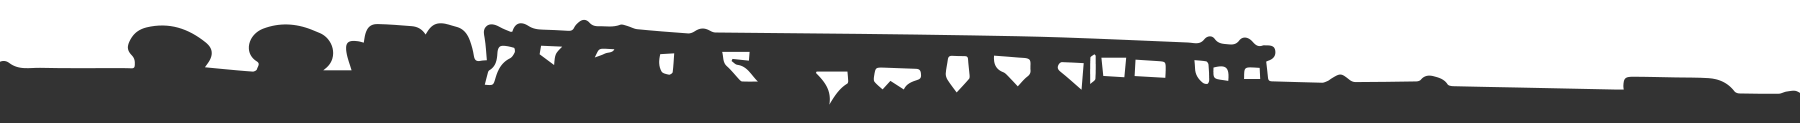
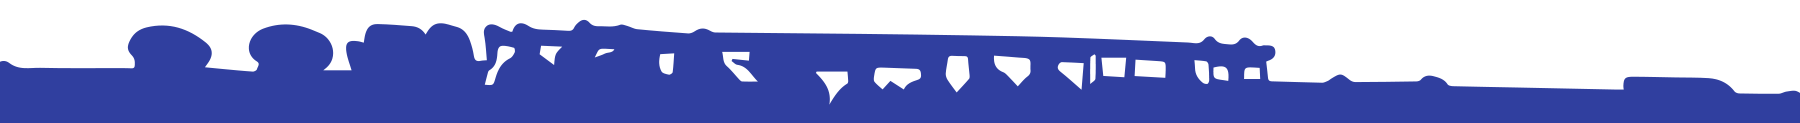
Changes 'Courses' to 'Levels'. Changes color scheme to indigo & pink.

diff --git a/dtf/app/static/app/less/footers.less b/dtf/app/static/app/less/footers.less
@@ -5,15 +5,18 @@
 /* ------ Universal Styles
 /* --------------------------------------- */
 footer {
-	background-color:@gray-darker;
+	background-color: darken(@brand-primary-dark, 12%);
 	.text-white();
-	a:hover { color: #fff; }
+	a {
+		color: @brand-secondary;
+		&:hover { color: #fff; }
+	}
 	.widget-title { margin-bottom: 20px; }
 	.contact-widget p { margin: 0; }
 }
 .bottom-footer {
 	background-color: transparent;
-	color: @gray-light;
+	color: fadeout(#fff, 17%);
 	padding: 35px 0;
 	font-size: 12px;
 }
@@ -23,7 +26,7 @@ footer {
 .footer-main,
 .footer-app { margin-top: 60px; }
 .footer-content {
-	background-color: @gray-dark;
+	background-color: @brand-primary-dark;
 	padding: 50px 0 70px;
 	text-align: left;
 	// Box Shadow
@@ -40,34 +43,10 @@ footer {
 // ------ Contact Footer (Homepage)
 // ---------------------------------------
 .contact-footer {
-	.flute-divider { background-color: @brand-primary; }
+	.flute-divider { background-color: @brand-secondary; }
 	.contact-section {
 		padding: 60px 0 30px;
-		background-color: @gray-dark;
+		background-color: @brand-primary-dark;
 	}
-}
-
-.bottom-menu {
-	position: fixed;
-	bottom: 0;
-	left: 0;
-	width: 100%;
-	background-color: #fff;
-	.bottom-menu-trigger {
-		background-color: @gray-dark;
-		color: #fff;
-		padding: 10px;
-		>a {
-			width: 100%;
-			margin: 0;
-			color: #fff;
-			font-size: 0.9em;
-		}
-	}
-	.bottom-menu-content {
-		display: none;
-		&.active {
-			display: block;
-		}
-	}
+	.btn-lg.submit { line-height: 1.45; }
 }

diff --git a/dtf/app/static/app/less/navbars.less b/dtf/app/static/app/less/navbars.less
@@ -114,15 +114,15 @@
 // ---------------------------------------
 .nav-secondary,
 .nav-marketing {
-	background-color: @gray-dark;
+	background-color: @brand-primary-dark;
 	.navbar-nav > li > a {
-		color: @gray-light2;
-		.caret { color: @gray-light2; }
+		color: #fff;
+		.caret { color: #fff; }
 		&:hover,
 		&:focus {
-			color: #fff;
+			color: @brand-secondary;
 			background-color: transparent;
-			.caret { color: #fff; }
+			.caret { color: @brand-secondary; }
 		}
 	}
 	.dropdown-menu {
@@ -159,14 +159,9 @@
     > li {
       float: left;
       > a {
-      	color: @gray-light2;
       	cursor: pointer;
         padding-top:    @navbar-padding-vertical;
         padding-bottom: @navbar-padding-vertical;
-				&:hover {
-					background-color: transparent;
-					color: #fff;
-				}
       }
     }
     &:first-child { margin-left: -@navbar-padding-horizontal; }
@@ -182,10 +177,4 @@
 		padding-top: 24px;
 	}
 	.navbar-nav > li > a { line-height: 50px; }
-	// Homepage Marketing Nav
-	&.home {
-		background-color: fadeout(@gray-darker, 30%);
-		margin-bottom: -80px;
-		.dropdown-menu { background-color: fadeout(@gray-darker, 30%); }
-	}
 }

diff --git a/dtf/app/static/app/less/variables.less b/dtf/app/static/app/less/variables.less
@@ -15,11 +15,13 @@
 @gray-lighter:           lighten(#000, 93.5%); // #eee
 
 // Brand Colors
-@brand-primary:         #a97c4b; // Brown
-@brand-secondary:       #325b6a; // Teal
+@brand-primary:         #3f51b5; // Indigo
+@brand-primary-dark:    #303f9f;
+
+@brand-secondary:       #ff80ab; // Pink
 
 // Alert Colors
-@brand-success:         #325b6a; // Teal
+@brand-success:         #5cb85c; // Green
 @brand-info:            #5bc0de; // Light Blue
 @brand-warning:         #f0ad4e; // Yellow
 @brand-danger:          #d9534f; // Red
@@ -153,6 +155,10 @@
 @btn-primary-color:              #fff;
 @btn-primary-bg:                 @brand-primary;
 @btn-primary-border:             darken(@btn-primary-bg, 5%);
+
+@btn-secondary-color:            #fff;
+@btn-secondary-bg:               @brand-secondary;
+@btn-secondary-border:           darken(@btn-secondary-bg, 5%);
 
 @btn-success-color:              #fff;
 @btn-success-bg:                 @brand-success;

diff --git a/dtf/app/static/app/less/marketing.less b/dtf/app/static/app/less/marketing.less
@@ -24,6 +24,10 @@
 	background-color: @brand-primary;
 	.text-white();
 }
+.block-secondary {
+	background-color: @brand-secondary;
+	.text-white();
+}
 
 /* Parallax Background
 /* ----------------------------------- */
@@ -145,16 +149,14 @@
 /* ----------------------------------- */
 .signup-cta {
 	&.block { padding-bottom: 55px; }
-	.block-primary();
+	.block-secondary();
 	.call-to-action { margin: 0 0 30px; }
 	.cta-button {
-		background-color: @gray-dark;
 		color: #fff;
 		font-family: 'Montserrat', Helvetica, sans-serif;
 		font-size: 14px;
 		letter-spacing: 2px;
 		padding: 12px 30px;
 		text-transform: uppercase;
-		&:hover { background-color: lighten(@gray-dark, 7%); }
 	}
 }

diff --git a/dtf/app/static/app/less/theme.less b/dtf/app/static/app/less/theme.less
@@ -38,6 +38,11 @@ a {
 .btn-lg,
 .btn-sm,
 .btn-xs { border-radius: 0; }
+// Button Secondary Mixin
+.btn-secondary {
+  .button-variant(@btn-secondary-color; @btn-secondary-bg; @btn-secondary-border);
+}
+
 
 /* Forms
 /* ----------------------------------- */

diff --git a/dtf/courses/static/courses/less/courses.less b/dtf/courses/static/courses/less/courses.less
@@ -24,7 +24,7 @@
 
 //-------- Course Detail -------//
 .course-detail {
-	background-color: @brand-primary;
+	background-color: @brand-secondary;
 	margin: -40px 0 -60px;
 	.course-info {
 		padding: 50px 10px;

diff --git a/dtf/pages/forms.py b/dtf/pages/forms.py
@@ -35,7 +35,7 @@ class ContactForm(forms.Form):
             'feedback',
             'honeypot',
             HTML('<input type="hidden" name="next" value="{{ request.path }}">'),
-            HTML('<div class="btn btn-lg btn-block btn-primary submit" type="submit" id="submit"><i class="icon-paper-plane-2"></i></div>')
+            HTML('<div class="btn btn-lg btn-block btn-secondary submit" type="submit" id="submit"><i class="icon-paper-plane-2"></i></div>')
         )
 
 

diff --git a/dtf/config/settings.py b/dtf/config/settings.py
@@ -375,7 +375,7 @@ class Common(Configuration):
     SOUTH_DATABASE_ADAPTERS = {'default': 'south.db.postgresql_psycopg2'}
 
     ########## START TRAININGS CONFIG
-    COURSE_NAME = "Course"
+    COURSE_NAME = "Level"
     LESSON_NAME = "Lesson"
     RESOURCE_NAME = "Resource"
     HOMEWORK_NAME = "Homework"
